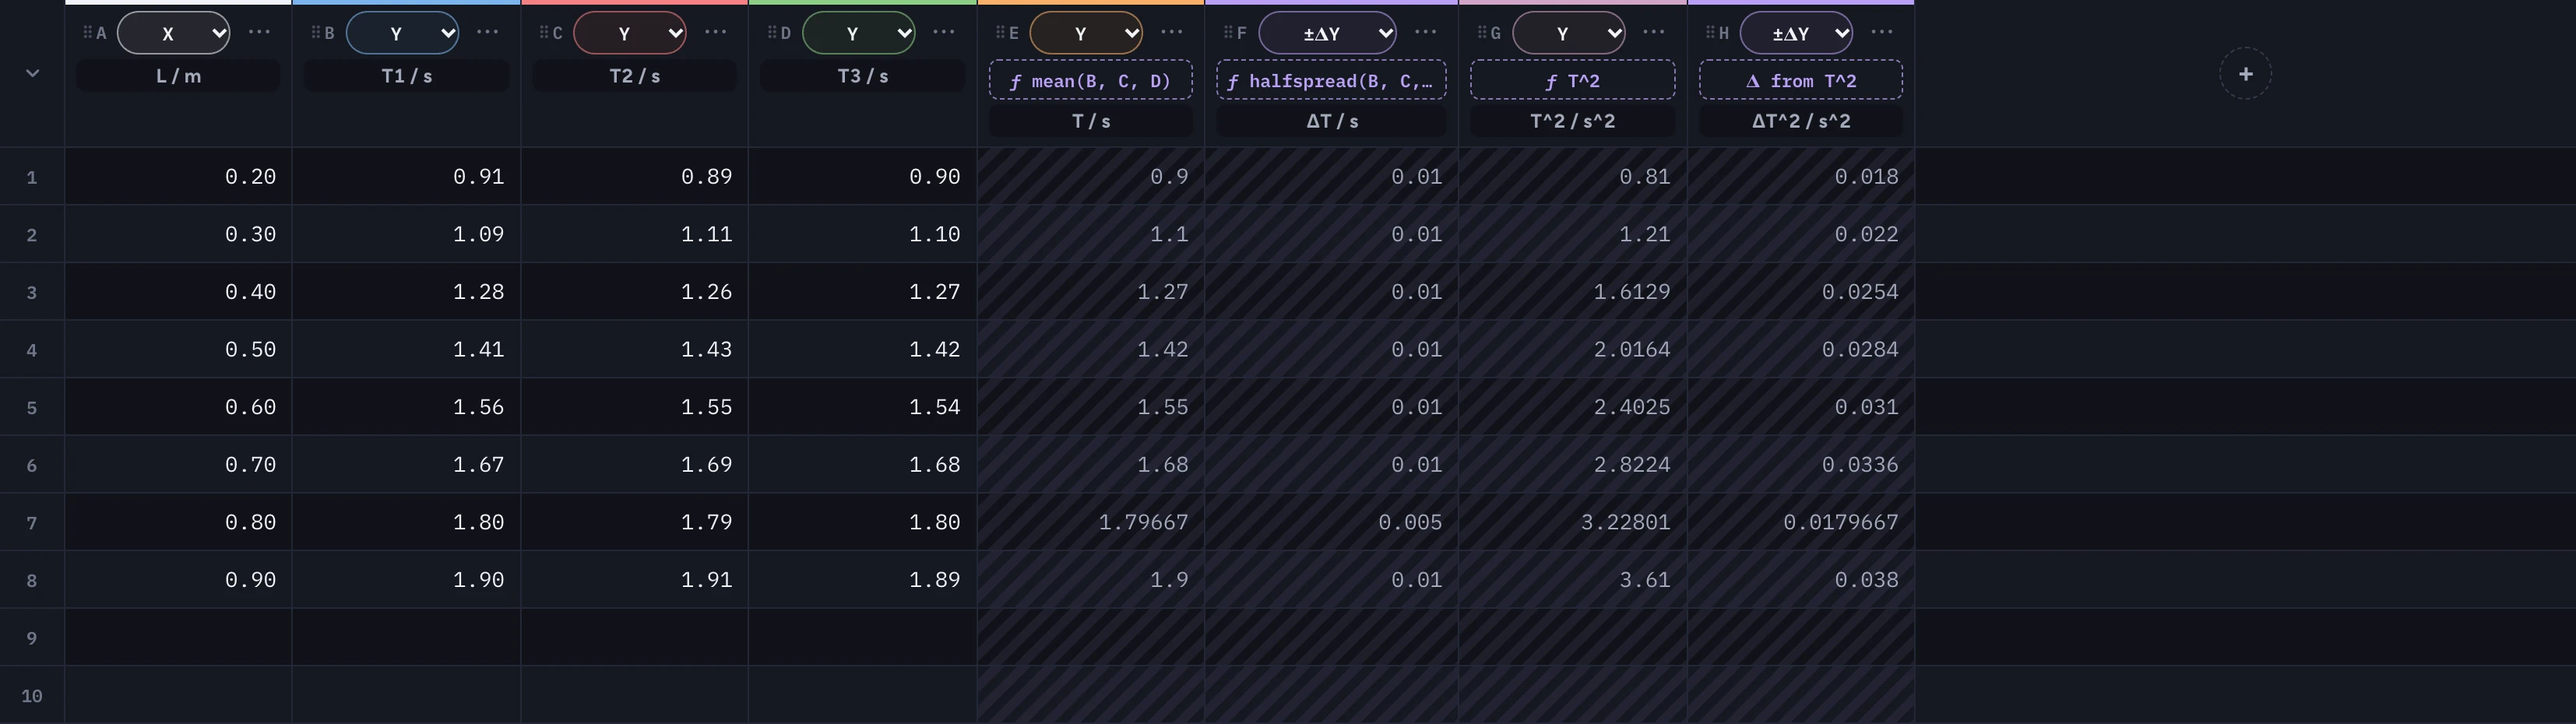
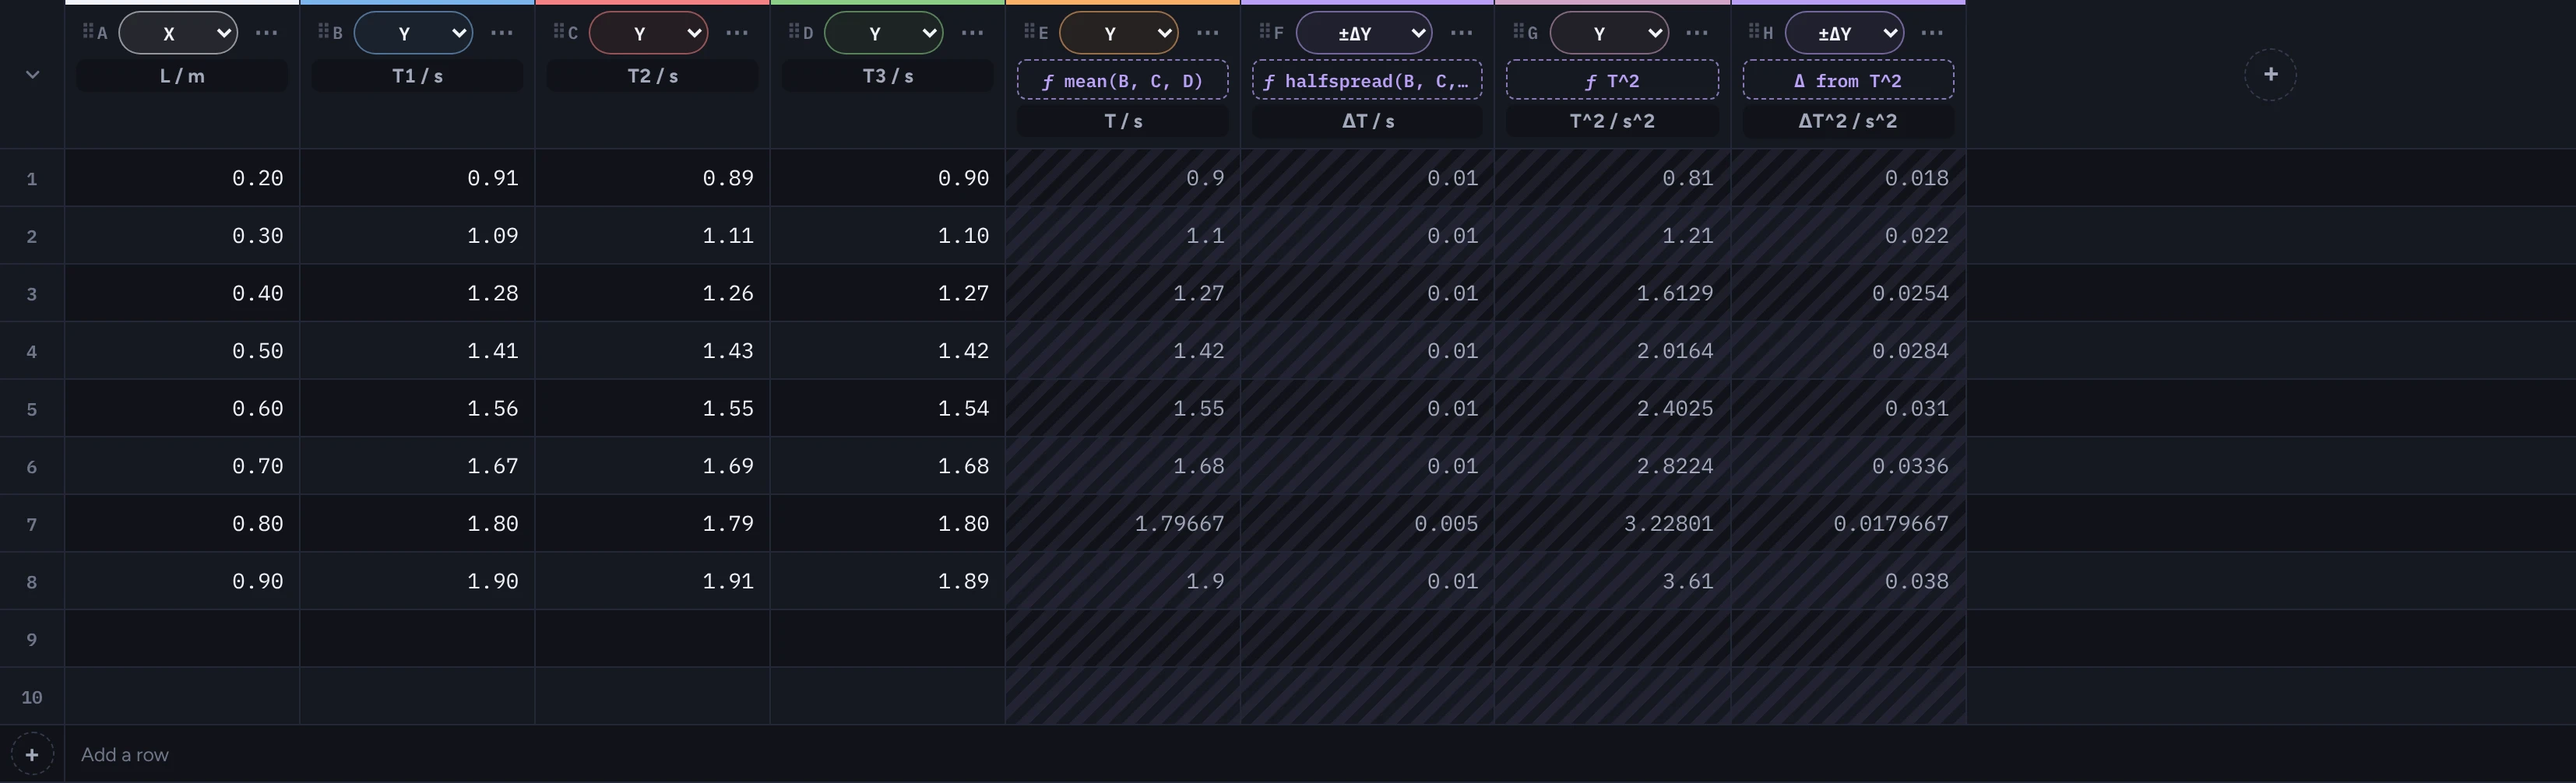
PanPhyPlot manual: bar chart screenshots, refresh the workspace and columns
The Bar guide gains light/dark screenshots of a bar sheet, its Mean and
Uncertainty rows, and All sheets grouping bars from two sheets. The Scatter
guide's workspace and columns screenshots are retaken to show the new Graph
toolbar group and the + row. The new images are precached and listed in the
homepage offline requirements.

Claude-Session: https://claude.ai/code/session_01DzhnHbipCeXdfwo6Q4VM5W

diff --git a/tools/panphyplot/manual.html b/tools/panphyplot/manual.html
@@ -222,11 +222,11 @@
 </table>
 <figure class="screenshot">
 			<a class="screenshot-link screenshot-light" href="/tools/panphyplot/manual/columns-light.webp" target="_blank" rel="noopener" aria-label="Enlarge columns screenshot">
-				<img src="/tools/panphyplot/manual/columns-light.webp" width="3308" height="930" loading="lazy" decoding="async" alt="Processed pendulum table showing L, T1, T2, T3, mean T, uncertainty ΔT, T^2 and uncertainty ΔT^2, with X, Y and ±ΔY roles.">
+				<img src="/tools/panphyplot/manual/columns-light.webp" width="3308" height="1006" loading="lazy" decoding="async" alt="Processed pendulum table showing L, T1, T2, T3, mean T, uncertainty ΔT, T^2 and uncertainty ΔT^2, with X, Y and ±ΔY roles.">
 				<span class="screenshot-open">Enlarge screenshot <span aria-hidden="true">↗</span></span>
 			</a>
 			<a class="screenshot-link screenshot-dark" href="/tools/panphyplot/manual/columns-dark.webp" target="_blank" rel="noopener" aria-label="Enlarge columns screenshot">
-				<img src="/tools/panphyplot/manual/columns-dark.webp" width="3308" height="930" loading="lazy" decoding="async" alt="Processed pendulum table showing L, T1, T2, T3, mean T, uncertainty ΔT, T^2 and uncertainty ΔT^2, with X, Y and ±ΔY roles.">
+				<img src="/tools/panphyplot/manual/columns-dark.webp" width="3308" height="1006" loading="lazy" decoding="async" alt="Processed pendulum table showing L, T1, T2, T3, mean T, uncertainty ΔT, T^2 and uncertainty ΔT^2, with X, Y and ±ΔY roles.">
 				<span class="screenshot-open">Enlarge screenshot <span aria-hidden="true">↗</span></span>
 			</a>
 			<figcaption><strong>The completed sheet.</strong> Enlarge this image and choose <strong>Actual size</strong> to inspect individual readings.</figcaption>
@@ -345,13 +345,28 @@
 		<section aria-labelledby="bar-walkthrough" data-mode="bar">
 			<span id="bar" class="anchor-alias" aria-hidden="true"></span>
 			<h2 id="bar-walkthrough" tabindex="-1">Your first bar chart</h2>
-			<p class="section-intro">Work through these six steps in order.</p>
+			<p class="section-intro">Work through these six steps in order. Screenshots match your theme; select one to enlarge it here.</p>
 			<nav class="step-index" aria-label="Walkthrough steps"><a href="#bar-step-mode"><span>1</span>Choose Bar</a><a href="#bar-step-data"><span>2</span>Name the bars and enter readings</a><a href="#bar-step-axes"><span>3</span>Label the axes</a><a href="#bar-step-errors"><span>4</span>Show the uncertainty</a><a href="#bar-step-compare"><span>5</span>Compare sheets</a><a href="#bar-step-save"><span>6</span>Save or copy your work</a></nav>
 <section class="walkthrough-step" aria-labelledby="bar-step-mode">
     <p class="eyebrow">Step 1 of 6</p>
 <h3 id="bar-step-mode" tabindex="-1">Choose Bar</h3>
+    <div class="step-layout">
+<div class="step-instructions">
 <p>Each sheet draws one kind of graph. In the toolbar&rsquo;s <strong>Graph</strong> group, choose <strong>Bar</strong>. The Data section now shows a table in which <strong>each column is a bar</strong>, and the graph fills the rest of the window.</p>
 <p>To follow along with ready-made readings, choose <strong>Try sample data</strong> on the empty graph. It loads three bounce heights for each of four balls.</p>
+</div>
+<figure class="screenshot">
+			<a class="screenshot-link screenshot-light" href="/tools/panphyplot/manual/bar-workspace-light.webp" target="_blank" rel="noopener" aria-label="Enlarge bar workspace screenshot">
+				<img src="/tools/panphyplot/manual/bar-workspace-light.webp" width="3360" height="1960" loading="lazy" decoding="async" alt="PanPhyPlot with Bar chosen in the toolbar, bounce heights of four balls in Data with Mean and Uncertainty rows, and a bar chart of bounce height by ball with error bars.">
+				<span class="screenshot-open">Enlarge screenshot <span aria-hidden="true">↗</span></span>
+			</a>
+			<a class="screenshot-link screenshot-dark" href="/tools/panphyplot/manual/bar-workspace-dark.webp" target="_blank" rel="noopener" aria-label="Enlarge bar workspace screenshot">
+				<img src="/tools/panphyplot/manual/bar-workspace-dark.webp" width="3360" height="1960" loading="lazy" decoding="async" alt="PanPhyPlot with Bar chosen in the toolbar, bounce heights of four balls in Data with Mean and Uncertainty rows, and a bar chart of bounce height by ball with error bars.">
+				<span class="screenshot-open">Enlarge screenshot <span aria-hidden="true">↗</span></span>
+			</a>
+			<figcaption><strong>A bar sheet.</strong> The readings and axis names on the left, the chart on the right.</figcaption>
+		</figure>
+</div>
 <nav class="step-nav" aria-label="Step 1 navigation"><span></span><a href="#bar-step-data">Next: name the bars and enter readings →</a></nav>
 </section>
 <section class="walkthrough-step" aria-labelledby="bar-step-data">
@@ -372,15 +387,45 @@
 <section class="walkthrough-step" aria-labelledby="bar-step-errors">
     <p class="eyebrow">Step 4 of 6</p>
 <h3 id="bar-step-errors" tabindex="-1">Show the uncertainty</h3>
+    <div class="step-layout">
+<div class="step-instructions">
 <p>Turn on <strong>Error bars</strong>. An <strong>Uncertainty</strong> row appears under the Mean row: half the spread between the largest and the smallest reading in each column. The same value is drawn on each bar as an error bar.</p>
 <p>A column with a single reading has no spread, so it has no error bar.</p>
+</div>
+<figure class="screenshot">
+			<a class="screenshot-link screenshot-light" href="/tools/panphyplot/manual/bar-data-light.webp" target="_blank" rel="noopener" aria-label="Enlarge bar data screenshot">
+				<img src="/tools/panphyplot/manual/bar-data-light.webp" width="1264" height="846" loading="lazy" decoding="async" alt="Data section of a bar sheet: Value axis Bounce height, Unit cm, Bars axis Ball, Error bars on, three readings for each ball, and the Mean and Uncertainty rows.">
+				<span class="screenshot-open">Enlarge screenshot <span aria-hidden="true">↗</span></span>
+			</a>
+			<a class="screenshot-link screenshot-dark" href="/tools/panphyplot/manual/bar-data-dark.webp" target="_blank" rel="noopener" aria-label="Enlarge bar data screenshot">
+				<img src="/tools/panphyplot/manual/bar-data-dark.webp" width="1264" height="846" loading="lazy" decoding="async" alt="Data section of a bar sheet: Value axis Bounce height, Unit cm, Bars axis Ball, Error bars on, three readings for each ball, and the Mean and Uncertainty rows.">
+				<span class="screenshot-open">Enlarge screenshot <span aria-hidden="true">↗</span></span>
+			</a>
+			<figcaption><strong>The Mean and Uncertainty rows.</strong> Worked out from the readings above them.</figcaption>
+		</figure>
+</div>
 <nav class="step-nav" aria-label="Step 4 navigation"><a href="#bar-step-axes">← Previous step</a><a href="#bar-step-compare">Next: compare sheets →</a></nav>
 </section>
 <section class="walkthrough-step" aria-labelledby="bar-step-compare">
     <p class="eyebrow">Step 5 of 6</p>
 <h3 id="bar-step-compare" tabindex="-1">Compare sheets</h3>
+    <div class="step-layout">
+<div class="step-instructions">
 <p>To compare sets of bars, give each set its own bar sheet with the same bar names: a sheet for each year, class or trial. <strong>View → All sheets</strong> then draws them together as groups of bars.</p>
 <p><strong>Group bars by</strong> chooses how: by <strong>Columns</strong>, each bar name is a group with a bar for each sheet; by <strong>Sheets</strong>, each sheet is a group with a bar for each name. See <a href="#bar-compare">Several sheets together</a>.</p>
+</div>
+<figure class="screenshot">
+			<a class="screenshot-link screenshot-light" href="/tools/panphyplot/manual/bar-compare-light.webp" target="_blank" rel="noopener" aria-label="Enlarge all sheets bar screenshot">
+				<img src="/tools/panphyplot/manual/bar-compare-light.webp" width="2200" height="1612" loading="lazy" decoding="async" alt="Combined Plot of All Sheets with bars grouped by ball, comparing bounce heights from 1 m and from 2 m, with error bars and Group bars by set to Columns.">
+				<span class="screenshot-open">Enlarge screenshot <span aria-hidden="true">↗</span></span>
+			</a>
+			<a class="screenshot-link screenshot-dark" href="/tools/panphyplot/manual/bar-compare-dark.webp" target="_blank" rel="noopener" aria-label="Enlarge all sheets bar screenshot">
+				<img src="/tools/panphyplot/manual/bar-compare-dark.webp" width="2200" height="1612" loading="lazy" decoding="async" alt="Combined Plot of All Sheets with bars grouped by ball, comparing bounce heights from 1 m and from 2 m, with error bars and Group bars by set to Columns.">
+				<span class="screenshot-open">Enlarge screenshot <span aria-hidden="true">↗</span></span>
+			</a>
+			<figcaption><strong>All sheets, grouped by columns.</strong> One group for each ball, with a bar for each sheet.</figcaption>
+		</figure>
+</div>
 <nav class="step-nav" aria-label="Step 5 navigation"><a href="#bar-step-errors">← Previous step</a><a href="#bar-step-save">Next: save or copy your work →</a></nav>
 </section>
 <section class="walkthrough-step" aria-labelledby="bar-step-save">

diff --git a/sw.js b/sw.js
@@ -1,4 +1,4 @@
-const BUILD_ID = '2026-11-10T12:25:53Z';
+const BUILD_ID = '2026-11-10T12:32:38Z';
 const CACHE_PREFIX = 'panphy-labs';
 const PRECACHE_NAME = `${CACHE_PREFIX}-precache-${BUILD_ID}`;
 const RUNTIME_CACHE = `${CACHE_PREFIX}-runtime-${BUILD_ID}`;
@@ -108,6 +108,12 @@ const ASSETS_TO_CACHE = [
   '/tools/panphyplot/manual.html',
   '/tools/panphyplot/manual/manual.css',
   '/tools/panphyplot/manual/manual.js',
+  '/tools/panphyplot/manual/bar-compare-dark.webp',
+  '/tools/panphyplot/manual/bar-compare-light.webp',
+  '/tools/panphyplot/manual/bar-data-dark.webp',
+  '/tools/panphyplot/manual/bar-data-light.webp',
+  '/tools/panphyplot/manual/bar-workspace-dark.webp',
+  '/tools/panphyplot/manual/bar-workspace-light.webp',
   '/tools/panphyplot/manual/clear-dark.webp',
   '/tools/panphyplot/manual/clear-light.webp',
   '/tools/panphyplot/manual/columns-dark.webp',

diff --git a/index.html b/index.html
@@ -2195,6 +2195,12 @@
                 '/tools/panphyplot/manual.html',
                 '/tools/panphyplot/manual/manual.css',
                 '/tools/panphyplot/manual/manual.js',
+                '/tools/panphyplot/manual/bar-compare-dark.webp',
+                '/tools/panphyplot/manual/bar-compare-light.webp',
+                '/tools/panphyplot/manual/bar-data-dark.webp',
+                '/tools/panphyplot/manual/bar-data-light.webp',
+                '/tools/panphyplot/manual/bar-workspace-dark.webp',
+                '/tools/panphyplot/manual/bar-workspace-light.webp',
                 '/tools/panphyplot/manual/clear-dark.webp',
                 '/tools/panphyplot/manual/clear-light.webp',
                 '/tools/panphyplot/manual/columns-dark.webp',

diff --git a/tools/panphyplot/manual/README.md b/tools/panphyplot/manual/README.md
@@ -1,8 +1,8 @@
 # Manual screenshots
 
-Nine light/dark WebP pairs illustrate the six-step walkthrough and expandable reference in `../manual.html`. `manual.css` imports the app’s `../css/theme.css` tokens and styles the guide as a graph-paper workbench; `manual.js` manages Contents, direct links into closed reference topics, theme-aware image zoom and focus restoration. Capture the real app using **Try sample data** on an empty sheet in an isolated browser session. Do not capture personal datasets or temporary notifications.
+Twelve light/dark WebP pairs illustrate the two six-step walkthroughs (Scatter and Bar) and the expandable reference in `../manual.html`. `manual.css` imports the app’s `../css/theme.css` tokens and styles the guide as a graph-paper workbench; `manual.js` manages Contents, direct links into closed reference topics, theme-aware image zoom and focus restoration. Capture the real app using **Try sample data** on an empty sheet in an isolated browser session. Do not capture personal datasets or temporary notifications.
 
-Follow the manual's six-step pendulum example: add the mean and half-spread uncertainty for T1–T3, calculate `T^2` with propagated uncertainty, hide T, and fit T² against L with a weighted straight line. Capture the workspace, Mean, Formula, calculated columns, Fit, Result, graph with residuals, View Table and Clear. Keep both themes at the same state and dimensions. Use the app's pane controls to frame the table and fit cards clearly; capture dialogs and cards closely enough to read. Capture at a device pixel ratio of 2 (2× resolution), with browser caching disabled and service workers blocked, then save them as WebP at quality 90 without resizing. The current set uses a 1680 × 980 workspace, the inspector at its 520 px maximum for Fit and Result, the maximized data pane to show all eight columns, and a 1920 × 780 window for the graph. Record the actual pixel dimensions in the manual so Actual size exposes the full-resolution image. Keep each image below 500 KB and the full set below 2 MB.
+Follow the manual's six-step pendulum example: add the mean and half-spread uncertainty for T1–T3, calculate `T^2` with propagated uncertainty, hide T, and fit T² against L with a weighted straight line. Capture the workspace, Mean, Formula, calculated columns, Fit, Result, graph with residuals, View Table and Clear. Keep both themes at the same state and dimensions. Use the app's pane controls to frame the table and fit cards clearly; capture dialogs and cards closely enough to read. Capture at a device pixel ratio of 2 (2× resolution), with browser caching disabled and service workers blocked, then save them as WebP at quality 90 without resizing. The current set uses a 1680 × 980 workspace, the inspector at its 520 px maximum for Fit and Result, the maximized data pane to show all eight columns, and a 1920 × 780 window for the graph. For the Bar guide, choose Bar on an empty sheet, then **Try sample data** (four balls, three bounce heights each, Error bars on). Capture the 1680 × 980 workspace (`bar-workspace`), the Data section from its header to the Uncertainty row (`bar-data`), and All sheets after adding a second bar sheet with the same ball names (`bar-compare`, with the sheets named From 1 m and From 2 m and Group bars by Columns). Remove any toast before capturing. Record the actual pixel dimensions in the manual so Actual size exposes the full-resolution image. Keep each image below 500 KB and the full set below 2 MB.
 
 Keep filenames stable. When replacing a pair, update the image dimensions and captions in the manual if needed. Images are listed in both `sw.js` and the PanPhyPlot `OFFLINE_CARD_REQUIREMENTS` in `index.html`; update those lists when adding or removing a pair, and bump `BUILD_ID` after any image change.
 
